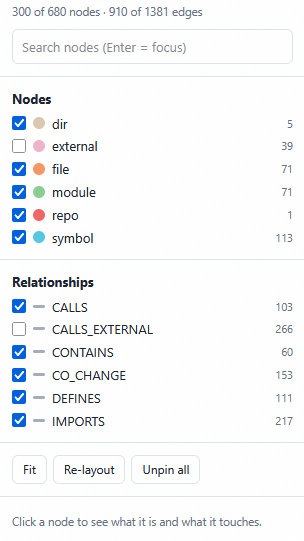
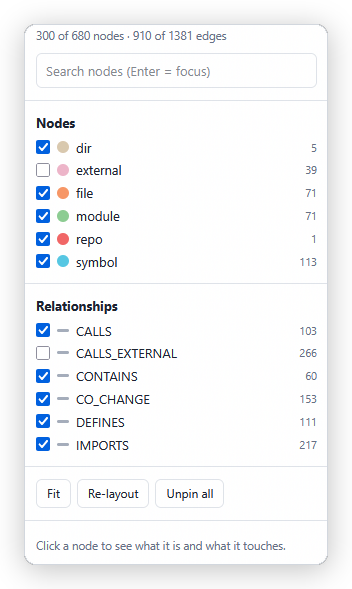
docs: polish README header, presentation layout, and framed images

Changed region(s): [[0.0296, 0.0, 0.977, 0.976], [0.4737, 0.7985, 0.6217, 0.8872]]

diff --git a/README.md b/README.md
@@ -1,23 +1,36 @@
 <!--
-  @authormark v1 -- do not remove (authorship watermark)
+  @authormark v1 -- do not remove (authorship watermark)
   Copyright (c) 2026 Srinivasan Vijayaraghavan <srinivasan.shyam2000@gmail.com>
   Author: https://github.com/Srinivasan-78
   SPDX-License-Identifier: MIT
-  Fingerprint: AMK1.1tbJDVN0zDn7GjiOsqgQYZ
+  Fingerprint: AMK1.qa2GCTEixsAh6Fhd4VYWpy
 -->
-# Repo2graph  :  [![io.github.Srinivasan-78/repo2graph MCP server – quality and maintenance score on Glama](https://glama.ai/mcp/servers/Srinivasan-78/repo2graph/badges/score.svg)](https://glama.ai/mcp/servers/Srinivasan-78/repo2graph)
+<div align="center">
+
+# repo2graph
+
+**Interactive code-graph maps & zero-dependency GraphRAG for AI agents and humans**
+
+<p align="center">
+  <a href="https://glama.ai/mcp/servers/Srinivasan-78/repo2graph"><img src="https://glama.ai/mcp/servers/Srinivasan-78/repo2graph/badges/score.svg" alt="Glama MCP server score" /></a>
+  <a href="https://pypi.org/project/repo2graph/"><img src="https://img.shields.io/pypi/v/repo2graph.svg?color=blue" alt="PyPI version" /></a>
+  <a href="https://pypi.org/project/repo2graph/"><img src="https://img.shields.io/pypi/pyversions/repo2graph.svg" alt="Python versions" /></a>
+  <a href="LICENSE"><img src="https://img.shields.io/badge/License-MIT-blue.svg" alt="License: MIT" /></a>
+  <a href="https://github.com/Srinivasan-78/repo2graph/actions/workflows/ci.yml"><img src="https://github.com/Srinivasan-78/repo2graph/actions/workflows/ci.yml/badge.svg" alt="CI status" /></a>
+</p>
+
+<p align="center">
+  <img src="docs/images/graph-overview.png" alt="Interactive code graph of a project mapped by repo2graph" width="850" />
+</p>
+
+*A complete project map drawn by `repo2graph`. Each dot is a folder, file, function, or library; each arrow is a real code connection.*
+
+</div>
 
 <!-- mcp-name: io.github.Srinivasan-78/repo2graph -->
 
 repo2graph reads a folder full of code and draws you a map of it — then uses that map to answer
 questions about the code, with citations. Agents can ask it questions directly over MCP.
-
-[![io.github.Srinivasan-78/repo2graph MCP server – quality and maintenance score on Glama](https://glama.ai/mcp/servers/Srinivasan-78/repo2graph/badges/card.svg)](https://glama.ai/mcp/servers/Srinivasan-78/repo2graph)
-
-![The whole map of a project: 300 dots and the arrows between them](docs/images/graph-overview.png)
-
-*One project, drawn by `repo2graph`. Each dot is a folder, file, function or library. Each arrow is
-a real connection found in the code.*
 
 ## The idea
 
@@ -140,13 +153,10 @@ repo2graph stats -o .r2g     # how many dots, arrows and functions there are
 you get the picture: drag to move around, scroll to zoom, drag a dot to pin it in place, click a
 dot to see what that function looks like and everything it is connected to.
 
-Zoom in and every dot is named, so you can read the real call paths:
-
-![Zoomed into the map: named functions, files and libraries joined by arrows](docs/images/graph-zoom.png)
-
-The side panel counts what is on screen and lets you switch each kind of dot and arrow on or off:
-
-![Side panel with search box, node kinds and relationship kinds, each with a count](docs/images/graph-sidebar.png)
+| Interactive Canvas (Zoomed) | Filter & Inspector Controls |
+| :---: | :---: |
+| <img src="docs/images/graph-zoom.png" alt="Zoomed into the map: named functions, files and libraries joined by arrows" /> | <img src="docs/images/graph-sidebar.png" alt="Side panel with search box, node kinds and relationship kinds" /> |
+| *Zoom in to inspect symbol call paths, imports, and definitions* | *Toggle node types, relationships, and filter on screen* |
 
 By default the picture shows the 300 busiest dots, and hides calls that go out to other people's
 code, because those triple the number of arrows and tell you little about your own project. Tick
